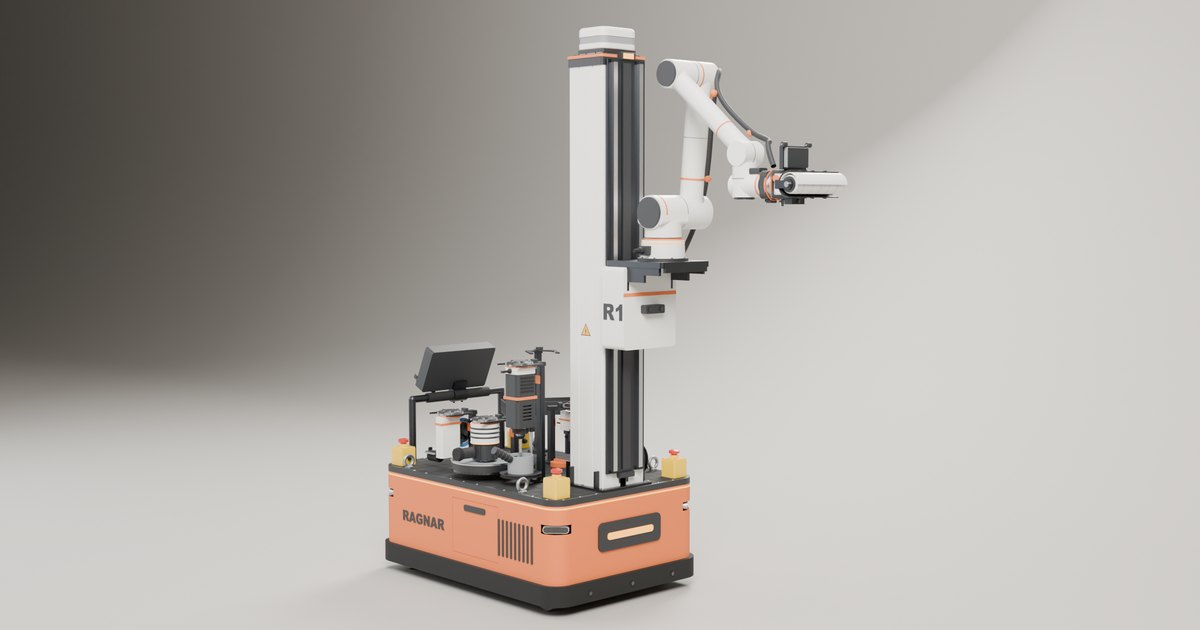
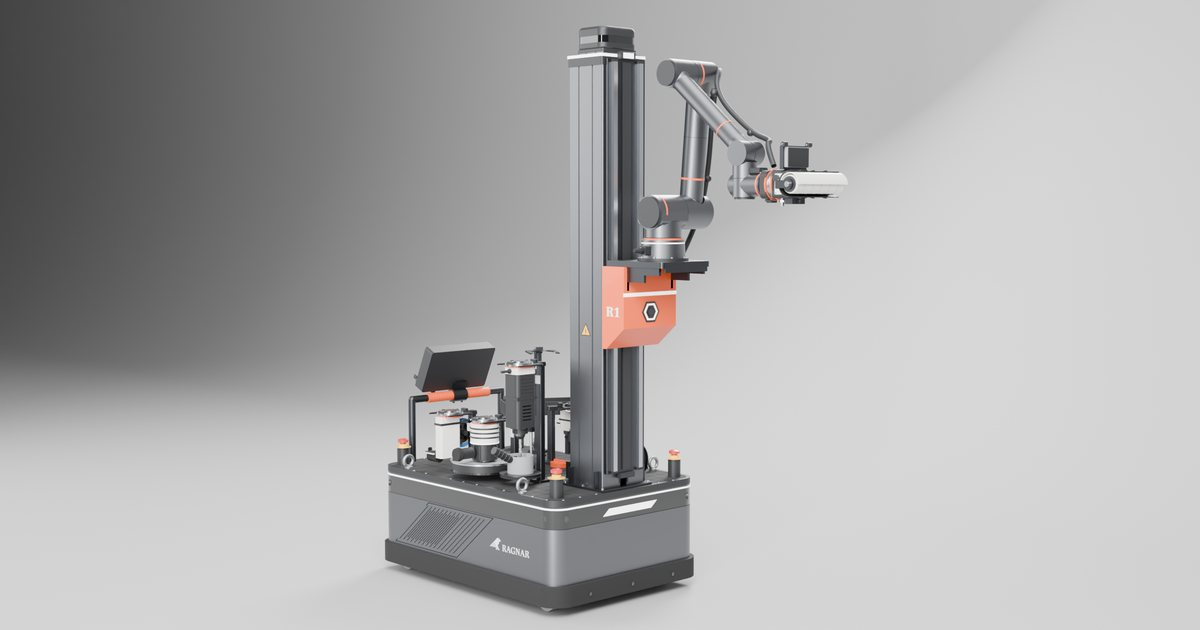
R1 renders: redesigned robot in metallic grey with signal orange

Changed region(s): [[0.3083, 0.0302, 0.6783, 0.9952]]

diff --git a/ragnar.html b/ragnar.html
@@ -47,7 +47,7 @@
   </figure>
 
   <div class="gallery">
-    <figure class="fig"><img src="images/onat-cakici-r1-studio.jpg" width="1200" height="1500" loading="lazy" alt="CAD rendering of R1: an orange base with six docked tools, a white three stage mast and a six axis arm holding a paint roller"></figure>
+    <figure class="fig"><img src="images/onat-cakici-r1-studio.jpg" width="1200" height="1500" loading="lazy" alt="CAD rendering of R1: a metallic grey base with six docked tools, a three stage mast with an orange camera carriage and a six axis arm holding a paint roller"></figure>
     <figure class="fig"><img src="images/onat-cakici-r1-mast-raised.jpg" width="1200" height="1500" loading="lazy" alt="CAD rendering of R1 with its three stage mast fully raised"></figure>
   </div>
 
